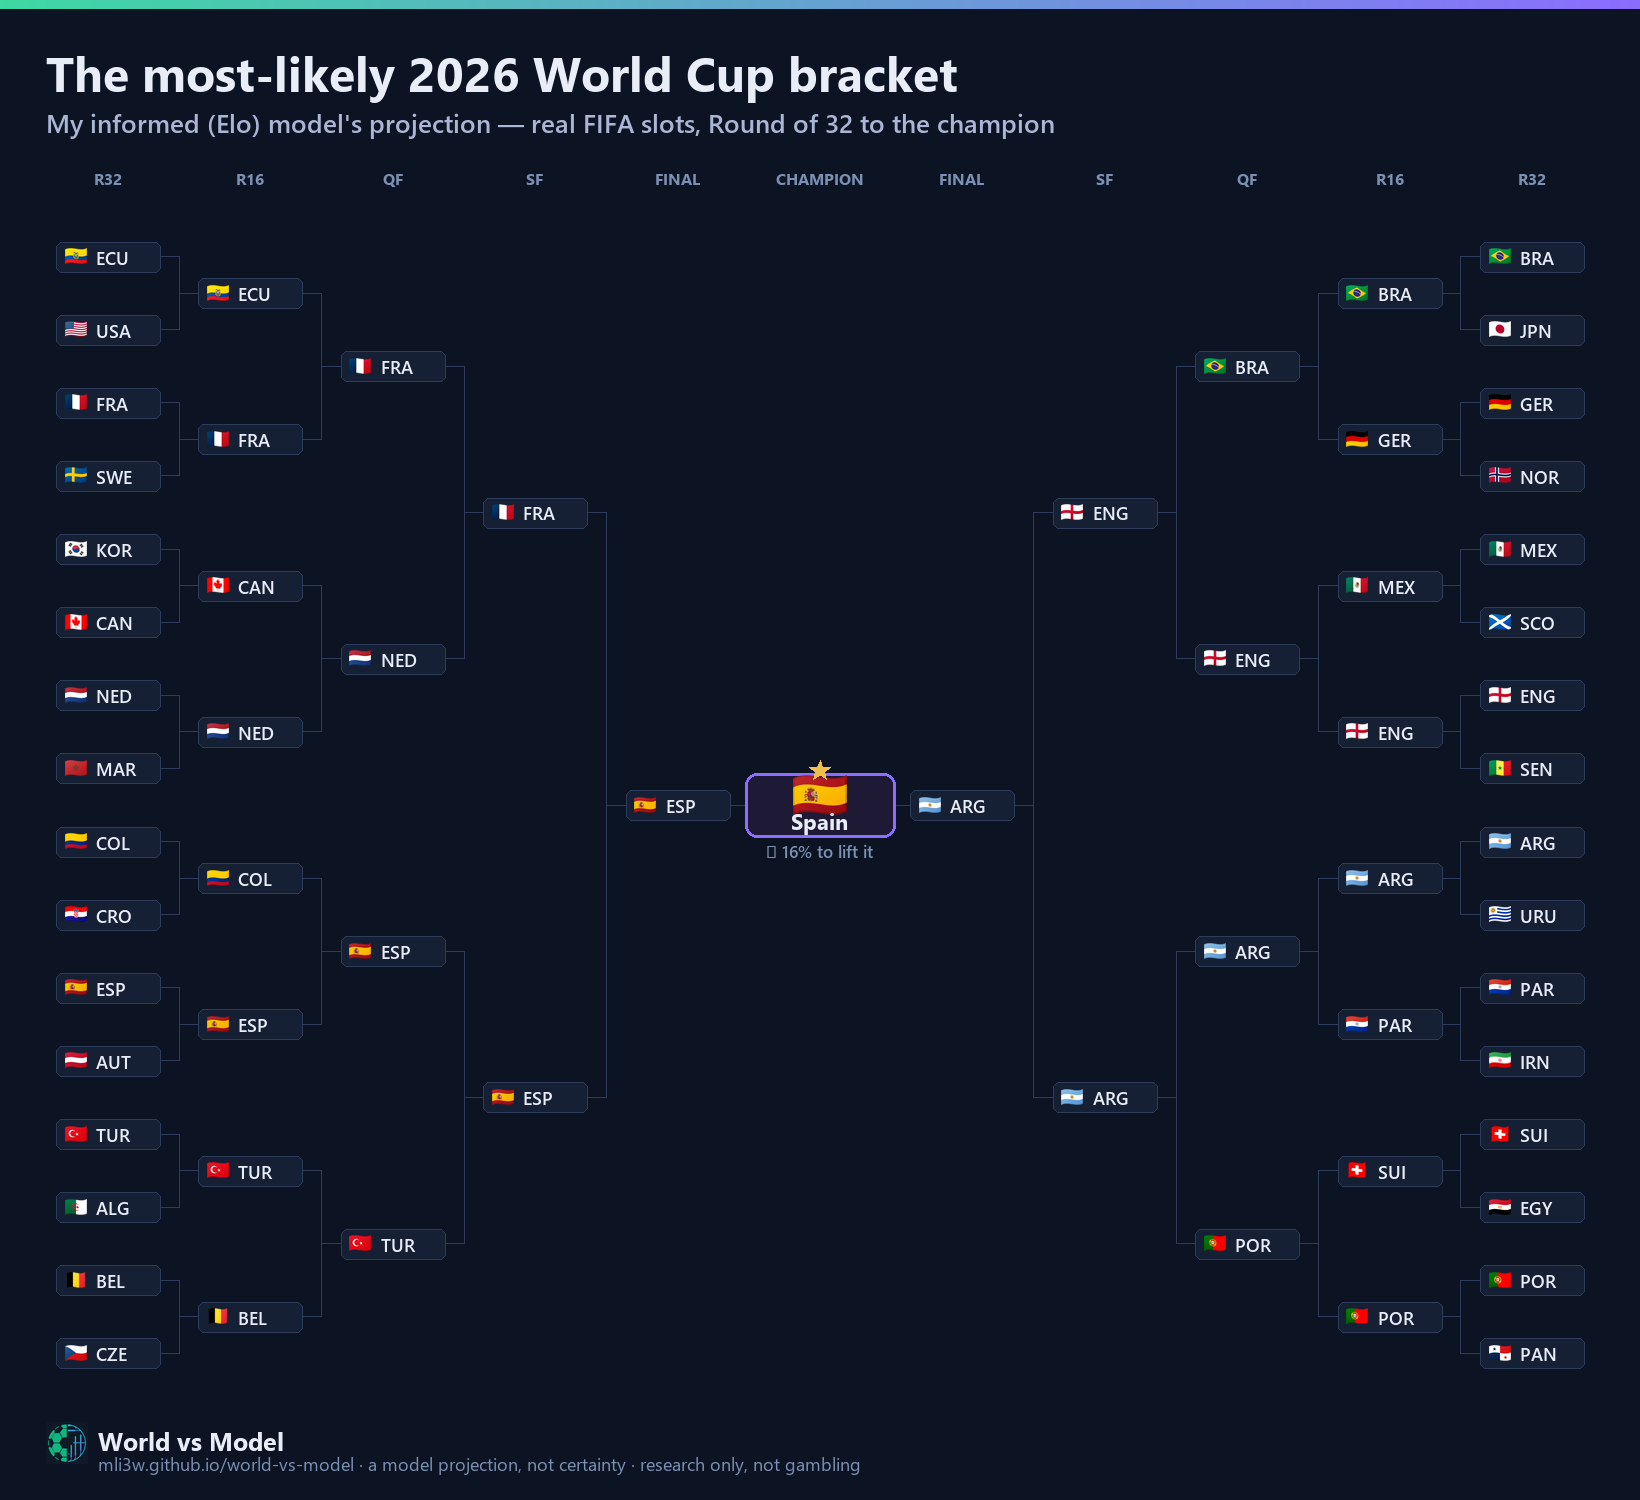
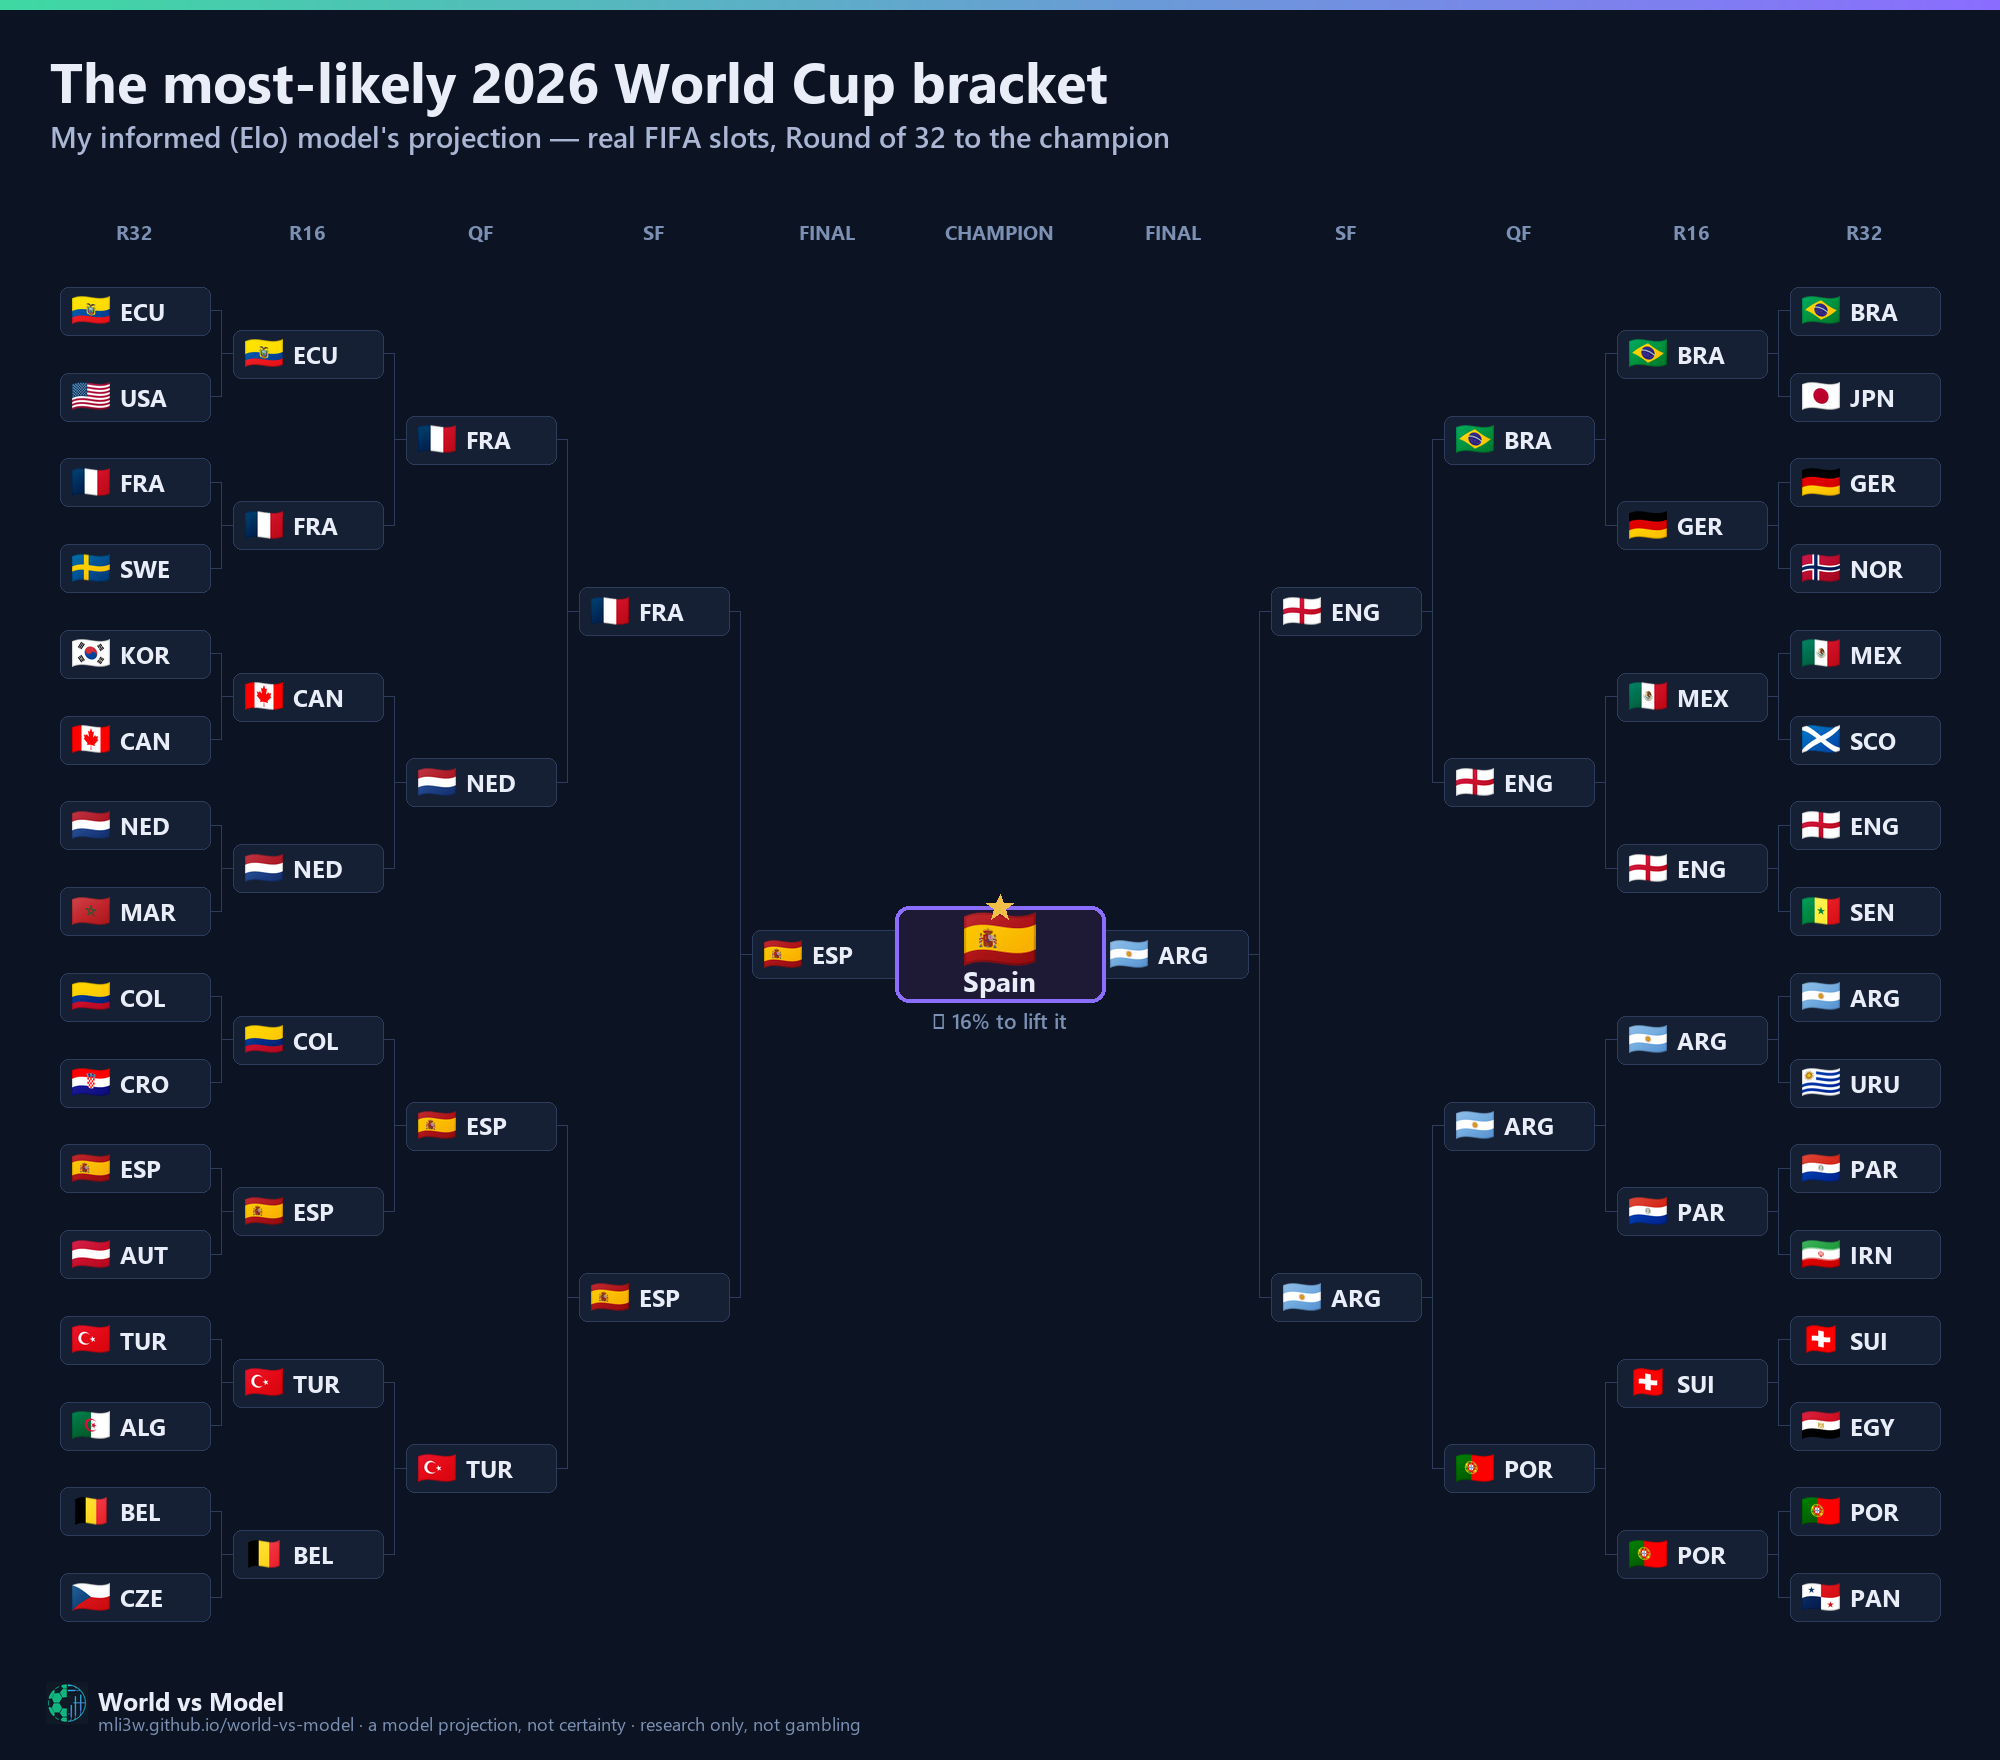
Charts: enlarge flags/codes on the knockout funnel + outcome-map bracket for legibility

diff --git a/src/make_outcomemap.py b/src/make_outcomemap.py
@@ -26,7 +26,7 @@ OUT = os.path.join(os.path.dirname(os.path.dirname(os.path.abspath(__file__))), 
 NAVY, TEAL, VIOL, GOLD = MC.NAVY, MC.TEAL, MC.VIOL, MC.GOLD
 INK, INK2, INK3 = MC.INK, MC.INK2, MC.INK3
 PANEL, LINE = (22, 32, 52), (44, 60, 90)
-NW, NH = 104, 30                                 # node width/height
+NW, NH = 150, 48                                 # node width/height (bigger = more legible flags/codes)
 
 
 def _bracket(n_sims=20000):
@@ -46,7 +46,7 @@ def _disp(t):
     return next((x for x in WM.WL.FIELD if nz(x) == t), t)
 
 
-def _flag(t, sess, size=(22, 16)):
+def _flag(t, sess, size=(38, 28)):
     try:
         iso = WM.info(t)[0]
         b = sess.get(f"https://flagcdn.com/80x60/{iso}.png", timeout=15).content
@@ -64,19 +64,19 @@ def build(out=OUT, n_sims=20000):
     sess = requests.Session()
     sess.headers.update({"User-Agent": "world-vs-model research"})
     flags = {t: _flag(t, sess) for t in rounds[0]}
-    champ_flag = _flag(champ, sess, size=(54, 40)) if champ else None
+    champ_flag = _flag(champ, sess, size=(72, 54)) if champ else None
 
-    W, H = 1640, 1500
+    W, H = 2000, 1760
     im = Image.new("RGBA", (W, H), NAVY + (255,))
     d = ImageDraw.Draw(im)
     lerp = lambda a, b, t: tuple(int(a[i] + (b[i] - a[i]) * t) for i in range(3))
     for x in range(W):
-        d.line([(x, 0), (x, 8)], fill=lerp(TEAL, VIOL, x / W))
-    d.text((46, 40), "The most-likely 2026 World Cup bracket", font=MC._font("segoeuib.ttf", 48), fill=INK)
-    d.text((46, 104), "My informed (Elo) model's projection — real FIFA slots, Round of 32 to the champion",
-           font=MC._font("seguisb.ttf", 26), fill=INK2)
+        d.line([(x, 0), (x, 9)], fill=lerp(TEAL, VIOL, x / W))
+    d.text((50, 42), "The most-likely 2026 World Cup bracket", font=MC._font("segoeuib.ttf", 56), fill=INK)
+    d.text((50, 116), "My informed (Elo) model's projection — real FIFA slots, Round of 32 to the champion",
+           font=MC._font("seguisb.ttf", 29), fill=INK2)
 
-    margin, top_y, bot_y = 56, 220, H - 110
+    margin, top_y, bot_y = 60, 268, H - 120
     step = (W - 2 * margin - NW) / 10.0
     col_cx = [margin + NW / 2 + k * step for k in range(11)]   # 11 column centres
     # vertical slots: 16 on the outer columns, parents centred on their two children
@@ -92,24 +92,24 @@ def build(out=OUT, n_sims=20000):
     R = [rounds[0][16:], rounds[1][8:], rounds[2][4:], rounds[3][2:], rounds[4][1:]]
     labels = ["R32", "R16", "QF", "SF", "FINAL", "CHAMPION", "FINAL", "SF", "QF", "R16", "R32"]
     for k, lab in enumerate(labels):
-        d.text((col_cx[k], 178), lab, font=MC._font("segoeuib.ttf", 16), fill=INK3, anchor="mm")
+        d.text((col_cx[k], 232), lab, font=MC._font("segoeuib.ttf", 20), fill=INK3, anchor="mm")
 
     def _node(cx, cy, team, champ=False):
         if champ:
-            bw, bh = 150, 64
-            d.rounded_rectangle([cx - bw / 2, cy - bh / 2, cx + bw / 2, cy + bh / 2], 12,
-                                fill=(30, 26, 54), outline=VIOL, width=3)
+            bw, bh = 210, 96
+            d.rounded_rectangle([cx - bw / 2, cy - bh / 2, cx + bw / 2, cy + bh / 2], 14,
+                                fill=(30, 26, 54), outline=VIOL, width=4)
             if champ_flag:
-                im.alpha_composite(champ_flag, (int(cx - 27), int(cy - 30)))
-            d.text((cx, cy + 16), _disp(team), font=MC._font("segoeuib.ttf", 22), fill=INK, anchor="mm")
-            MC._star(d, cx, int(cy - 34), 11, GOLD)
+                im.alpha_composite(champ_flag, (int(cx - 36), int(cy - 42)))
+            d.text((cx, cy + 26), _disp(team), font=MC._font("segoeuib.ttf", 28), fill=INK, anchor="mm")
+            MC._star(d, cx, int(cy - 46), 14, GOLD)
             return
-        d.rounded_rectangle([cx - NW / 2, cy - NH / 2, cx + NW / 2, cy + NH / 2], 6,
+        d.rounded_rectangle([cx - NW / 2, cy - NH / 2, cx + NW / 2, cy + NH / 2], 8,
                             fill=PANEL, outline=LINE, width=1)
         fg = flags.get(team)
         if fg:
-            im.alpha_composite(fg, (int(cx - NW / 2 + 9), int(cy - 8)))
-        d.text((cx - NW / 2 + 40, cy), WM.code(team), font=MC._font("seguisb.ttf", 18), fill=INK, anchor="lm")
+            im.alpha_composite(fg, (int(cx - NW / 2 + 12), int(cy - 14)))
+        d.text((cx - NW / 2 + 60, cy), WM.code(team), font=MC._font("segoeuib.ttf", 24), fill=INK, anchor="lm")
 
     def _connect(kc, kp, yc, yp, left=True):
         """Bracket connectors between child column kc and parent column kp."""
@@ -132,8 +132,8 @@ def build(out=OUT, n_sims=20000):
         _connect(k, k + 1, yL[k], yL[k + 1], left=True)
     for k in range(4):                                         # R: mirror (cols 10..7 -> 6)
         _connect(10 - k, 9 - k, yL[k], yL[k + 1], left=False)
-    d.line([(col_cx[4] + NW / 2, yL[4][0]), (col_cx[5] - 75, champ_y)], fill=LINE, width=1)
-    d.line([(col_cx[6] - NW / 2, yL[4][0]), (col_cx[5] + 75, champ_y)], fill=LINE, width=1)
+    d.line([(col_cx[4] + NW / 2, yL[4][0]), (col_cx[5] - 105, champ_y)], fill=LINE, width=1)
+    d.line([(col_cx[6] - NW / 2, yL[4][0]), (col_cx[5] + 105, champ_y)], fill=LINE, width=1)
 
     # nodes
     cols_L = list(zip(range(5), L, yL))
@@ -146,8 +146,8 @@ def build(out=OUT, n_sims=20000):
             _node(col_cx[k], y, t)
     if champ:
         _node(col_cx[5], champ_y, champ, champ=True)
-        d.text((col_cx[5], champ_y + 46), f"🏆 {win.get(nz(champ), 0)*100:.0f}% to lift it",
-               font=MC._font("seguisb.ttf", 17), fill=INK3, anchor="mm")
+        d.text((col_cx[5], champ_y + 66), f"🏆 {win.get(nz(champ), 0)*100:.0f}% to lift it",
+               font=MC._font("seguisb.ttf", 21), fill=INK3, anchor="mm")
 
     fy = H - 72
     try:

diff --git a/src/make_knockout.py b/src/make_knockout.py
@@ -53,7 +53,7 @@ def _rows(n_sims=20000):
     return out
 
 
-def _flags(teams, sess, size=(46, 34)):
+def _flags(teams, sess, size=(64, 47)):
     imgs = {}
     for t in teams:
         try:
@@ -72,9 +72,9 @@ def build(rows=None, out=OUT):
     allteams = {t for r in rows for t in r["union"]}
     flags = _flags(allteams, sess)
     champ = next((t for t in rows[-1]["union"]), None)
-    champ_flag = _flags([champ], sess, size=(96, 72)).get(champ) if champ else None
+    champ_flag = _flags([champ], sess, size=(130, 97)).get(champ) if champ else None
 
-    W, H = 1200, 1500
+    W, H = 1500, 1560
     im = Image.new("RGBA", (W, H), NAVY + (255,))
     d = ImageDraw.Draw(im)
     lerp = lambda a, b, t: tuple(int(a[i] + (b[i] - a[i]) * t) for i in range(3))
@@ -104,30 +104,30 @@ def build(rows=None, out=OUT):
         if r["lvl"] == "win" and champ:                       # champion: one big crowned flag
             cx = W // 2
             if champ_flag:
-                im.alpha_composite(champ_flag, (cx - 48, int(cy) - 52))
-            d.text((cx, int(cy) + 30), _disp(champ),
-                   font=MC._font("segoeuib.ttf", 30), fill=INK, anchor="mm")
-            MC._star(d, cx, int(cy) - 70, 12, GOLD)
+                im.alpha_composite(champ_flag, (cx - 65, int(cy) - 64))
+            d.text((cx, int(cy) + 44), _disp(champ),
+                   font=MC._font("segoeuib.ttf", 36), fill=INK, anchor="mm")
+            MC._star(d, cx, int(cy) - 88, 15, GOLD)
             note = ("model & market agree" if r["model"] == r["market"]
                     else "model & market disagree")
-            d.text((cx, int(cy) + 64), note, font=MC._font("seguisb.ttf", 20), fill=INK3, anchor="mm")
+            d.text((cx, int(cy) + 84), note, font=MC._font("seguisb.ttf", 22), fill=INK3, anchor="mm")
             continue
         teams = r["union"]
         n = len(teams)
-        cell = min(150, (W - 220) / max(n, 1))
+        cell = min(190, (W - 240) / max(n, 1))
         x0 = (W - cell * n) / 2 + 40
+        fw, fh = 64, 47
         for j, t in enumerate(teams):
             x = x0 + j * cell + cell / 2
             ring = VIOL if (t in r["model"] and t not in r["market"]) else (
                 TEAL if (t in r["market"] and t not in r["model"]) else None)
             fg = flags.get(t)
-            fw, fh = 46, 34
             if fg:
-                im.alpha_composite(fg, (int(x - fw / 2), int(cy - fh / 2 - 6)))
+                im.alpha_composite(fg, (int(x - fw / 2), int(cy - fh / 2 - 8)))
             if ring:
-                d.rounded_rectangle([x - fw / 2 - 4, cy - fh / 2 - 10, x + fw / 2 + 4, cy + fh / 2 - 2],
-                                    5, outline=ring, width=3)
-            d.text((x, int(cy) + 28), WM.code(t), font=MC._font("seguisb.ttf", 19), fill=INK, anchor="mm")
+                d.rounded_rectangle([x - fw / 2 - 6, cy - fh / 2 - 14, x + fw / 2 + 6, cy + fh / 2 - 2],
+                                    7, outline=ring, width=4)
+            d.text((x, int(cy) + 38), WM.code(t), font=MC._font("segoeuib.ttf", 23), fill=INK, anchor="mm")
 
     fy = H - 64
     try: